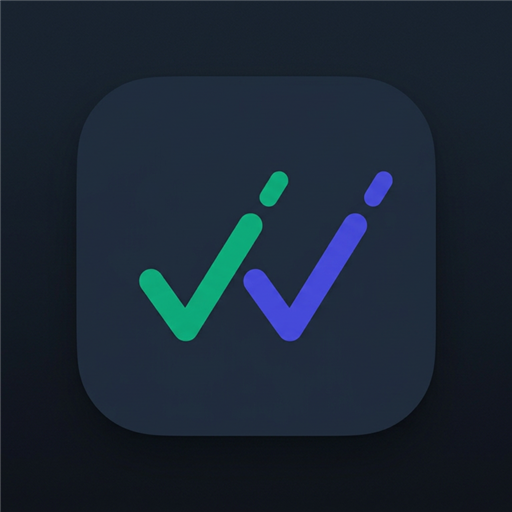
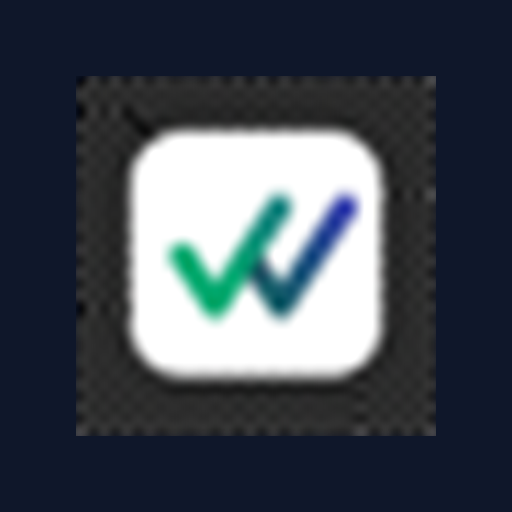
fix(push): icône opaque, actions notif via app et roadmap
Régénère l’icône push sans transparence, route Accepter/Refuser vers
l’app (session fiable) avec toast et modale ; met à jour ROADMAP P2.

diff --git a/frontend/public/sw.js b/frontend/public/sw.js
@@ -1,6 +1,6 @@
 /* Wroket PWA shell — cache static assets; network-first navigation with offline fallback. */
 
-const CACHE_VERSION = "wroket-shell-v2";
+const CACHE_VERSION = "wroket-shell-v4";
 const PUSH_ICON = "/wroket-notification-icon.png";
 const PRECACHE_URLS = ["/offline.html", PUSH_ICON, "/wroket-logo.png"];
 
@@ -86,30 +86,18 @@ function openUrl(url) {
   });
 }
 
-async function handleAssignmentAction(action, data) {
+/** Open the app with assignmentAction — mutation runs in the page (reliable session cookies on mobile). */
+function urlWithAssignmentAction(data, action) {
   const todoId = data?.todoId;
-  const apiBase = data?.apiBase;
-  if (!todoId || !apiBase) return openUrl(data?.url);
-
-  const status = action === "accept" ? "accepted" : action === "decline" ? "declined" : null;
-  if (!status) return openUrl(data?.url);
-
-  try {
-    const res = await fetch(`${apiBase}/todos/${encodeURIComponent(todoId)}`, {
-      method: "PUT",
-      credentials: "include",
-      headers: { "Content-Type": "application/json" },
-      body: JSON.stringify({ assignmentStatus: status }),
-    });
-    if (res.status === 401) {
-      const redirect = encodeURIComponent(data?.url || "/todos");
-      return openUrl(`${self.location.origin}/login?redirect=${redirect}`);
-    }
-    if (!res.ok) return openUrl(data?.url);
-    return undefined;
-  } catch {
-    return openUrl(data?.url);
+  let path = data?.url || "/todos";
+  if (todoId && !String(path).includes("task=")) {
+    const sep = path.includes("?") ? "&" : "?";
+    path = `${path}${sep}task=${encodeURIComponent(todoId)}`;
   }
+  const absolute = resolveAbsoluteUrl(path);
+  const u = new URL(absolute);
+  u.searchParams.set("assignmentAction", action);
+  return u.toString();
 }
 
 self.addEventListener("push", (event) => {
@@ -129,7 +117,6 @@ self.addEventListener("push", (event) => {
   const options = {
     body,
     icon: PUSH_ICON,
-    badge: PUSH_ICON,
     tag,
     data: {
       url,
@@ -148,7 +135,7 @@ self.addEventListener("notificationclick", (event) => {
   const action = event.action;
 
   if (action === "accept" || action === "decline") {
-    event.waitUntil(handleAssignmentAction(action, data));
+    event.waitUntil(openUrl(urlWithAssignmentAction(data, action)));
     return;
   }
 

diff --git a/frontend/src/app/todos/page.tsx b/frontend/src/app/todos/page.tsx
@@ -386,20 +386,48 @@ export default function TodosPage() {
   openEditRef.current = openEdit;
 
   const lastOpenedTaskFromUrl = useRef<string | null>(null);
+  const lastPushAssignmentKey = useRef<string | null>(null);
   useEffect(() => {
     if (loading) return;
     const taskId = searchParams.get("task");
+    const assignmentAction = searchParams.get("assignmentAction");
     if (!taskId) {
       lastOpenedTaskFromUrl.current = null;
+      lastPushAssignmentKey.current = null;
       return;
     }
-    if (lastOpenedTaskFromUrl.current === taskId) return;
     const todo = todos.find((t) => t.id === taskId);
     if (!todo) return;
+
+    if (assignmentAction === "accept" || assignmentAction === "decline") {
+      const actionKey = `${taskId}:${assignmentAction}`;
+      if (lastPushAssignmentKey.current === actionKey) return;
+      lastPushAssignmentKey.current = actionKey;
+      void (async () => {
+        try {
+          const status = assignmentAction === "accept" ? "accepted" : "declined";
+          const updated = await updateTodo(todo.id, { assignmentStatus: status });
+          replaceTodoInLists(updated);
+          toast.success(
+            assignmentAction === "accept" ? t("assign.acceptedFromPush") : t("assign.declinedFromPush"),
+          );
+          lastOpenedTaskFromUrl.current = taskId;
+          openEditRef.current(updated);
+        } catch {
+          toast.error(assignmentAction === "accept" ? t("toast.acceptError") : t("toast.declineError"));
+          lastOpenedTaskFromUrl.current = taskId;
+          openEditRef.current(todo);
+        }
+        router.replace("/todos", { scroll: false });
+      })();
+      return;
+    }
+
+    if (lastOpenedTaskFromUrl.current === taskId) return;
     lastOpenedTaskFromUrl.current = taskId;
     openEditRef.current(todo);
     router.replace("/todos", { scroll: false });
-  }, [loading, todos, searchParams, router]);
+  }, [loading, todos, searchParams, router, replaceTodoInLists, toast, t]);
 
   const onEditAutoSaved = useCallback(
     (updated: Todo) => {

diff --git a/frontend/src/lib/i18n.ts b/frontend/src/lib/i18n.ts
@@ -1195,6 +1195,8 @@ const translations = {
   "assign.declined": { fr: "Refusée", en: "Declined" },
   "assign.accept": { fr: "Accepter", en: "Accept" },
   "assign.accepted": { fr: "Acceptée", en: "Accepted" },
+  "assign.acceptedFromPush": { fr: "Tâche acceptée", en: "Task accepted" },
+  "assign.declinedFromPush": { fr: "Tâche refusée", en: "Task declined" },
   "assign.pending": { fr: "En attente", en: "Pending" },
   "assign.taskCompleted": { fr: "Tâche accomplie", en: "Task completed" },
   "assign.readOnly": { fr: "Assignée à", en: "Assigned to" },

diff --git a/frontend/src/lib/pushBranding.ts b/frontend/src/lib/pushBranding.ts
@@ -1,2 +1,2 @@
-/** Square 512×512 icon for Web Push / system notifications (matches site logo). */
+/** Opaque 512×512 icon for Web Push (favicon W centered on slate, no transparency). */
 export const PUSH_NOTIFICATION_ICON = "/wroket-notification-icon.png";

diff --git a/ROADMAP.md b/ROADMAP.md
@@ -8,11 +8,11 @@
 |-------|--------|---------------------------------------------------------|
 | **P0** | Confiance & stabilité | **Déploiement & Infrastructure** — Monitoring ; **Tests & Qualité** — E2E sur parcours critiques puis unitaires ciblés ; **Sécurité & Auth** — 2FA TOTP |
 | **P1** | Revenus & adoption pro | **Monétisation & Plan System** — plans Free/Pro/Team + Stripe + page `/pricing` ; **Sécurité & Auth** + **À l’étude** — OAuth Microsoft / SSO ; **Outlook / Microsoft 365** (Graph) dans les calendriers externes |
-| **P2** | Usage quotidien & différenciation | **Expérience utilisateur** — Ma semaine ✓, templates tâches ✓, alertes navigateur ✓, PWA ✓, Web Push ✓ ; reste liens partageables, a11y ; **Acquisition Notion** — import ZIP gratuit (capacité = statut compte) |
+| **P2** | Usage quotidien & différenciation | **Expérience utilisateur** — Ma semaine ✓, templates tâches ✓, alertes navigateur ✓, PWA ✓, Web Push ✓ (Android + desktop enrichi livré, E2E desktop §I-bis à valider) ; reste liens partageables, a11y ; **Acquisition Notion** — import ZIP gratuit (capacité = statut compte) |
 | **P3** | Intégrations & profondeur | **Intégrations & Connecteurs** — bots N2, sync Slack N3 ; **Features Notion-Like** (dépendances, docs) ; **Features Monday-Like** (import board, automations, dashboard) ; **À l’étude** — notes collaboratives, CalDAV |
 | **P4** | Business / scale | **Fonctionnalités Premium** — time tracking, custom fields, API publique OpenAPI, automation rules, client portal, OKR, analytics… |
 
-**P0 — terminé** : monitoring, 2FA TOTP, **E2E prod validé (2026-06-07)** — voir section Retour E2E. **P1 ~90 %** : billing/gating/pricing livrés ; Microsoft Outlook + Teams quasi terminés ; **Todo Persistence pack validé E2E** ; **Stripe Checkout en pause** ; reste SSO login Microsoft §B Auth + Error UX transverse. **P2 en cours** : PWA + **Web Push validés E2E prod Android (2026-06-07)** — assignation, deep-link tâche, redirect post-login (`dedd046`) ; **prochaine priorité → import Notion ZIP**. **Calendriers** : priorité FCFS Google/Outlook corrigée (2026-06-07).
+**P0 — terminé** : monitoring, 2FA TOTP, **E2E prod validé (2026-06-07)** — voir section Retour E2E. **P1 ~90 %** : billing/gating/pricing livrés ; Microsoft Outlook + Teams quasi terminés ; **Todo Persistence pack validé E2E** ; **Stripe Checkout en pause** ; reste SSO login Microsoft §B Auth + Error UX transverse. **P2 en cours** : PWA + **Web Push** — Android E2E OK (2026-06-07) ; **desktop/multi-appareil** livré (`a9d0c1e` + correctifs icône opaque + actions Accepter/Refuser via deep-link app) — E2E §I-bis à valider post-deploy ; **prochaine priorité → import Notion ZIP**. **Calendriers** : priorité FCFS Google/Outlook corrigée (2026-06-07).
 
 ### Prochaine priorité
 
@@ -60,7 +60,7 @@ Les cases `[ ]` des sections thématiques restent la **source de vérité** ; ce
 6. **Error UX Standard**
    - DoD: taxonomie d’erreurs backend->frontend appliquée aux flux critiques (auth, agenda, meeting, import, collaboration).
 7. **PWA (P2)** — **Fait** (2026-06-07) : `manifest.ts`, `sw.js` (cache assets + fallback offline), `PwaRegistration`, headers CSP `worker-src`, tests manifest ; déployé via `11d77f2`.
-8. ~~**Web Push (P2)**~~ — **Fait** (E2E prod Android 2026-06-07) : VAPID GCP, opt-in Paramètres, push `task_assigned` onglet fermé, clic → modal tâche, redirect post-login.
+8. ~~**Web Push (P2)**~~ — **Fait** (Android E2E 2026-06-07 ; desktop enrichi livré 2026-06-07) : VAPID GCP, opt-in **par appareil**, hints Windows/Mac, deep-link, actions Accepter/Refuser (mutation dans l’app), icône push carrée opaque, dédup alertes AppShell ; E2E desktop §I-bis checklist à valider.
 
 ### Next (6-12 semaines)
 
@@ -94,7 +94,8 @@ Checklist exécutée — parcours §A–I validés. Détail : [docs/checklist-e2
 - [x] **P2 — Templates tâches + alertes navigateur** — §I OK
 - [x] **Projets — DnD move + modales contraintes + Gantt** — §G OK
 - [x] **P2 — PWA installable** — manifest + SW shell livrés 2026-06-07 ; validation install prod à faire post-deploy (`/manifest.webmanifest`, `/sw.js`)
-- [x] **P2 — Web Push** — Android prod : assignation, deep-link, redirect login ; VAPID + SW `push`/`notificationclick` (`ec1080b`, `dedd046`)
+- [x] **P2 — Web Push (Android)** — Assignation, deep-link, redirect login ; VAPID + SW `push`/`notificationclick` (`ec1080b`, `dedd046`)
+- [x] **P2 — Web Push (desktop / multi-appareil)** — Statut par appareil, hints PWA desktop, CTA cloche → Paramètres, icône opaque, actions notif → app (`a9d0c1e` + correctifs) ; **E2E §I-bis à valider** (Windows/Mac PWA)
 
 ## Plan exécutable d'équipe (Q2 2026)
 
@@ -181,6 +182,7 @@ Rendre l'app plus lisible, cohérente et rapide à utiliser, en priorisant les p
 - Microsoft/Outlook : bascule priorité Google ↔ Outlook, booking Teams, reconnexion sans perte de priorité FCFS (post-fix 2026-06-07).
 - Flux restauration/suppression archives en scénarios projet + sous-tâches.
 - Notifications multicanal (email/Slack/Teams/Chat) avec vérification de délivrabilité.
+- Web Push desktop Mac/Windows PWA — §I-bis checklist ([docs/checklist-e2e-prod.md](docs/checklist-e2e-prod.md)) : icône Wroket, deep-link, actions Accepter/Refuser, pas de doublon AppShell.
 
 ## Implémenté
 
@@ -337,8 +339,8 @@ Rendre l'app plus lisible, cohérente et rapide à utiliser, en priorisant les p
 ## Expérience utilisateur & attractivité
 
 - [x] **PWA (Progressive Web App)** — Installable sur l’écran d’accueil, manifest + service worker pour assets / shell ; complète le responsive existant pour un usage « app-like » sur mobile et tablette — livré 2026-06-07 (`11d77f2`).
-- [x] **Notifications push (Web Push)** — Service worker + abonnement push pour rappels deadline, assignations et événements clés **hors onglet / app fermée** ; complète in-app + alertes navigateur + email + webhooks — E2E prod Android 2026-06-07.
-- [x] **Alertes navigateur (onglet ouvert)** — Permission `Notification` + toast cloche ; alerte desktop quand nouvelles notifs in-app (`AppShell`) ; bouton « Activer les alertes » ; E2E §I validé.
+- [x] **Notifications push (Web Push)** — Service worker + abonnement push **par appareil** pour assignations et événements clés **hors onglet / app fermée** ; actions Accepter/Refuser (`task_assigned` → deep-link app + mutation) ; icône 512×512 opaque ; complète in-app + email + webhooks — E2E Android 2026-06-07 ; desktop §I-bis à valider.
+- [x] **Alertes navigateur (onglet ouvert)** — Permission `Notification` + cloche ; alerte desktop détaillée avec deep-link si push locale inactive ; lien « Notifications système » → Paramètres ; skip doublon si Web Push locale active ; E2E §I validé.
 - [x] **Vue « Ma semaine » / focus (MVP Dashboard)** — Panneau Dashboard : priorités retard/échéance/créneau, quadrant Radar, liens Agenda/Tâches, bilan hebdo (complétées / à l’heure / en retard) ; E2E §F validé ; *évolution* : charge `estimatedMinutes` agrégée, page dédiée optionnelle.
 - [x] **Templates & checklists de tâches** — `TaskTemplatePicker` + templates système + CRUD perso (`/templates`) ; application priorité/effort/tags/sous-tâches à la création ; E2E §I validé.
 - [ ] **Liens partageables en lecture seule** — URL signée ou token limité dans le temps pour consulter une tâche ou la vue d’un projet sans compte Wroket (socle léger avant un client portal complet — voir *Fonctionnalités Premium*).
